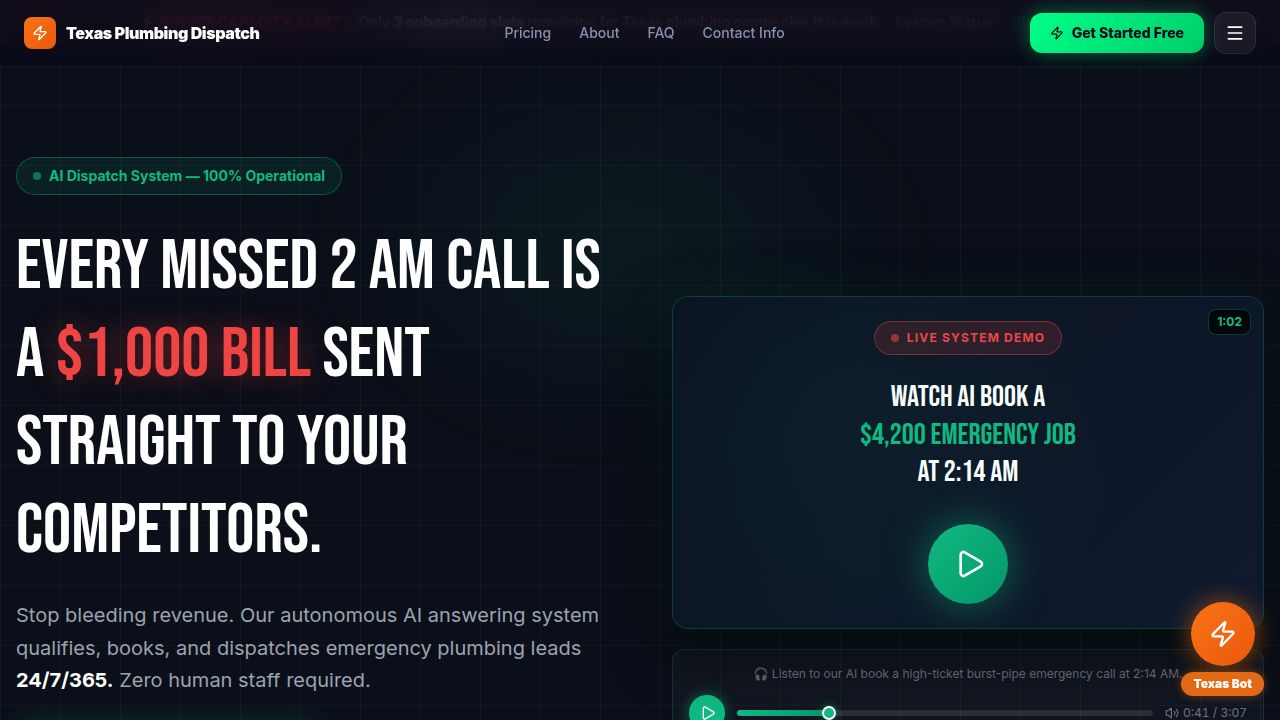
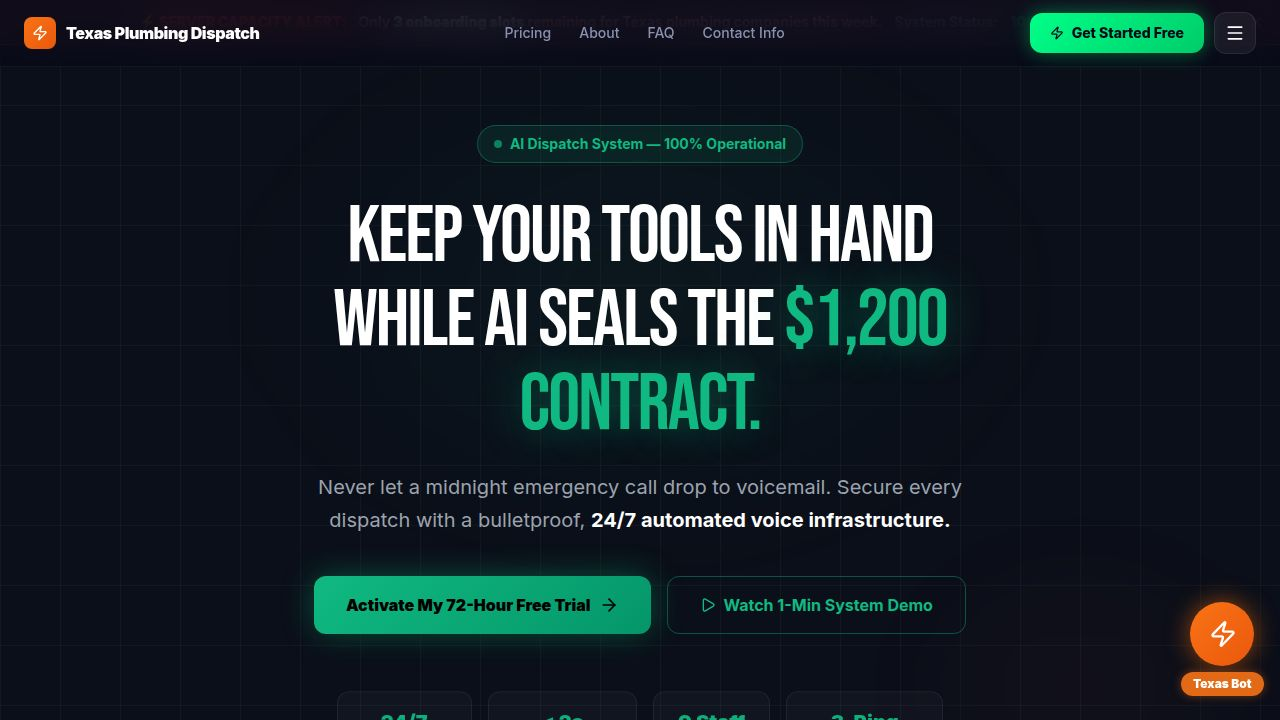
Update landing page with new features and improved user experience
Adds a trust strip component, updates a YouTube link, and refines color styling on the landing page.

Replit-Commit-Author: Agent
Replit-Commit-Session-Id: 2914442c-3795-4d2d-a997-9843a926bc93
Replit-Commit-Checkpoint-Type: full_checkpoint
Replit-Commit-Event-Id: a50cfc13-6f7a-488d-936b-f56758568e6b
Replit-Commit-Screenshot-Url: https://storage.googleapis.com/screenshot-production-us-central1/383444e8-951b-4a05-b8cf-df571bf1ebae/2914442c-3795-4d2d-a997-9843a926bc93/KoAQ0Vq
Replit-Helium-Checkpoint-Created: true

diff --git a/artifacts/plumber-ai/src/components/TrustStrip.tsx b/artifacts/plumber-ai/src/components/TrustStrip.tsx
@@ -1,0 +1,34 @@
+const ITEMS = ["24/7 AI DISPATCH", "NO SPAM CHARGES — EVER", "WEEK-TO-WEEK ENROLLMENT"];
+
+export default function TrustStrip() {
+  return (
+    <div
+      className="w-full py-4 px-4"
+      style={{
+        background: "#0d0f1a",
+        borderTop: "1px solid rgba(255,107,53,0.25)",
+        borderBottom: "2px solid #ff6b35",
+        boxShadow: "0 0 24px rgba(255,107,53,0.08)",
+      }}
+      data-testid="trust-strip"
+    >
+      <div className="max-w-5xl mx-auto flex flex-wrap items-center justify-center gap-x-3 gap-y-2 text-center">
+        {ITEMS.map((item, i) => (
+          <span key={item} className="flex items-center gap-x-3">
+            <span
+              className="font-sans font-bold text-xs sm:text-sm tracking-wide uppercase"
+              style={{ color: "#ff6b35" }}
+            >
+              {item}
+            </span>
+            {i < ITEMS.length - 1 && (
+              <span className="text-xs sm:text-sm" style={{ color: "#ff6b35", opacity: 0.5 }}>
+                •
+              </span>
+            )}
+          </span>
+        ))}
+      </div>
+    </div>
+  );
+}

diff --git a/artifacts/plumber-ai/src/components/HeroSection.tsx b/artifacts/plumber-ai/src/components/HeroSection.tsx
@@ -105,8 +105,10 @@ export default function HeroSection() {
             >
               Activate My 72-Hour Free Trial <ArrowRight className="w-5 h-5" />
             </button>
-            <button
-              onClick={() => scrollTo("#about")}
+            <a
+              href="https://youtube.com/@texasdispatch?si=rK85Ni_O8AHd9iMb"
+              target="_blank"
+              rel="noopener noreferrer"
               className="flex items-center justify-center gap-2 px-8 py-4 rounded-xl font-bold text-base transition-all duration-200"
               style={{
                 border: "1.5px solid rgba(16,185,129,0.4)",
@@ -123,7 +125,7 @@ export default function HeroSection() {
             >
               <Play className="w-4 h-4" />
               Watch 1-Min System Demo
-            </button>
+            </a>
           </div>
 
           {/* Stats row */}

diff --git a/artifacts/plumber-ai/src/pages/home.tsx b/artifacts/plumber-ai/src/pages/home.tsx
@@ -3,6 +3,7 @@ import { motion, AnimatePresence } from "framer-motion";
 import { Zap, X } from "lucide-react";
 import NavMenu from "@/components/NavMenu";
 import HeroSection from "@/components/HeroSection";
+import TrustStrip from "@/components/TrustStrip";
 import TestimonialsSection from "@/components/TestimonialsSection";
 import LossCalculator from "@/components/LossCalculator";
 import ServicesSection from "@/components/ServicesSection";
@@ -93,6 +94,9 @@ export default function Home() {
 
       {/* 2. HERO — 2-column layout with video mock + audio player */}
       <HeroSection />
+
+      {/* 2b. TRUST / FEATURE STRIP */}
+      <TrustStrip />
 
       {/* 3. TRUST & SOCIAL PROOF */}
       <TestimonialsSection />